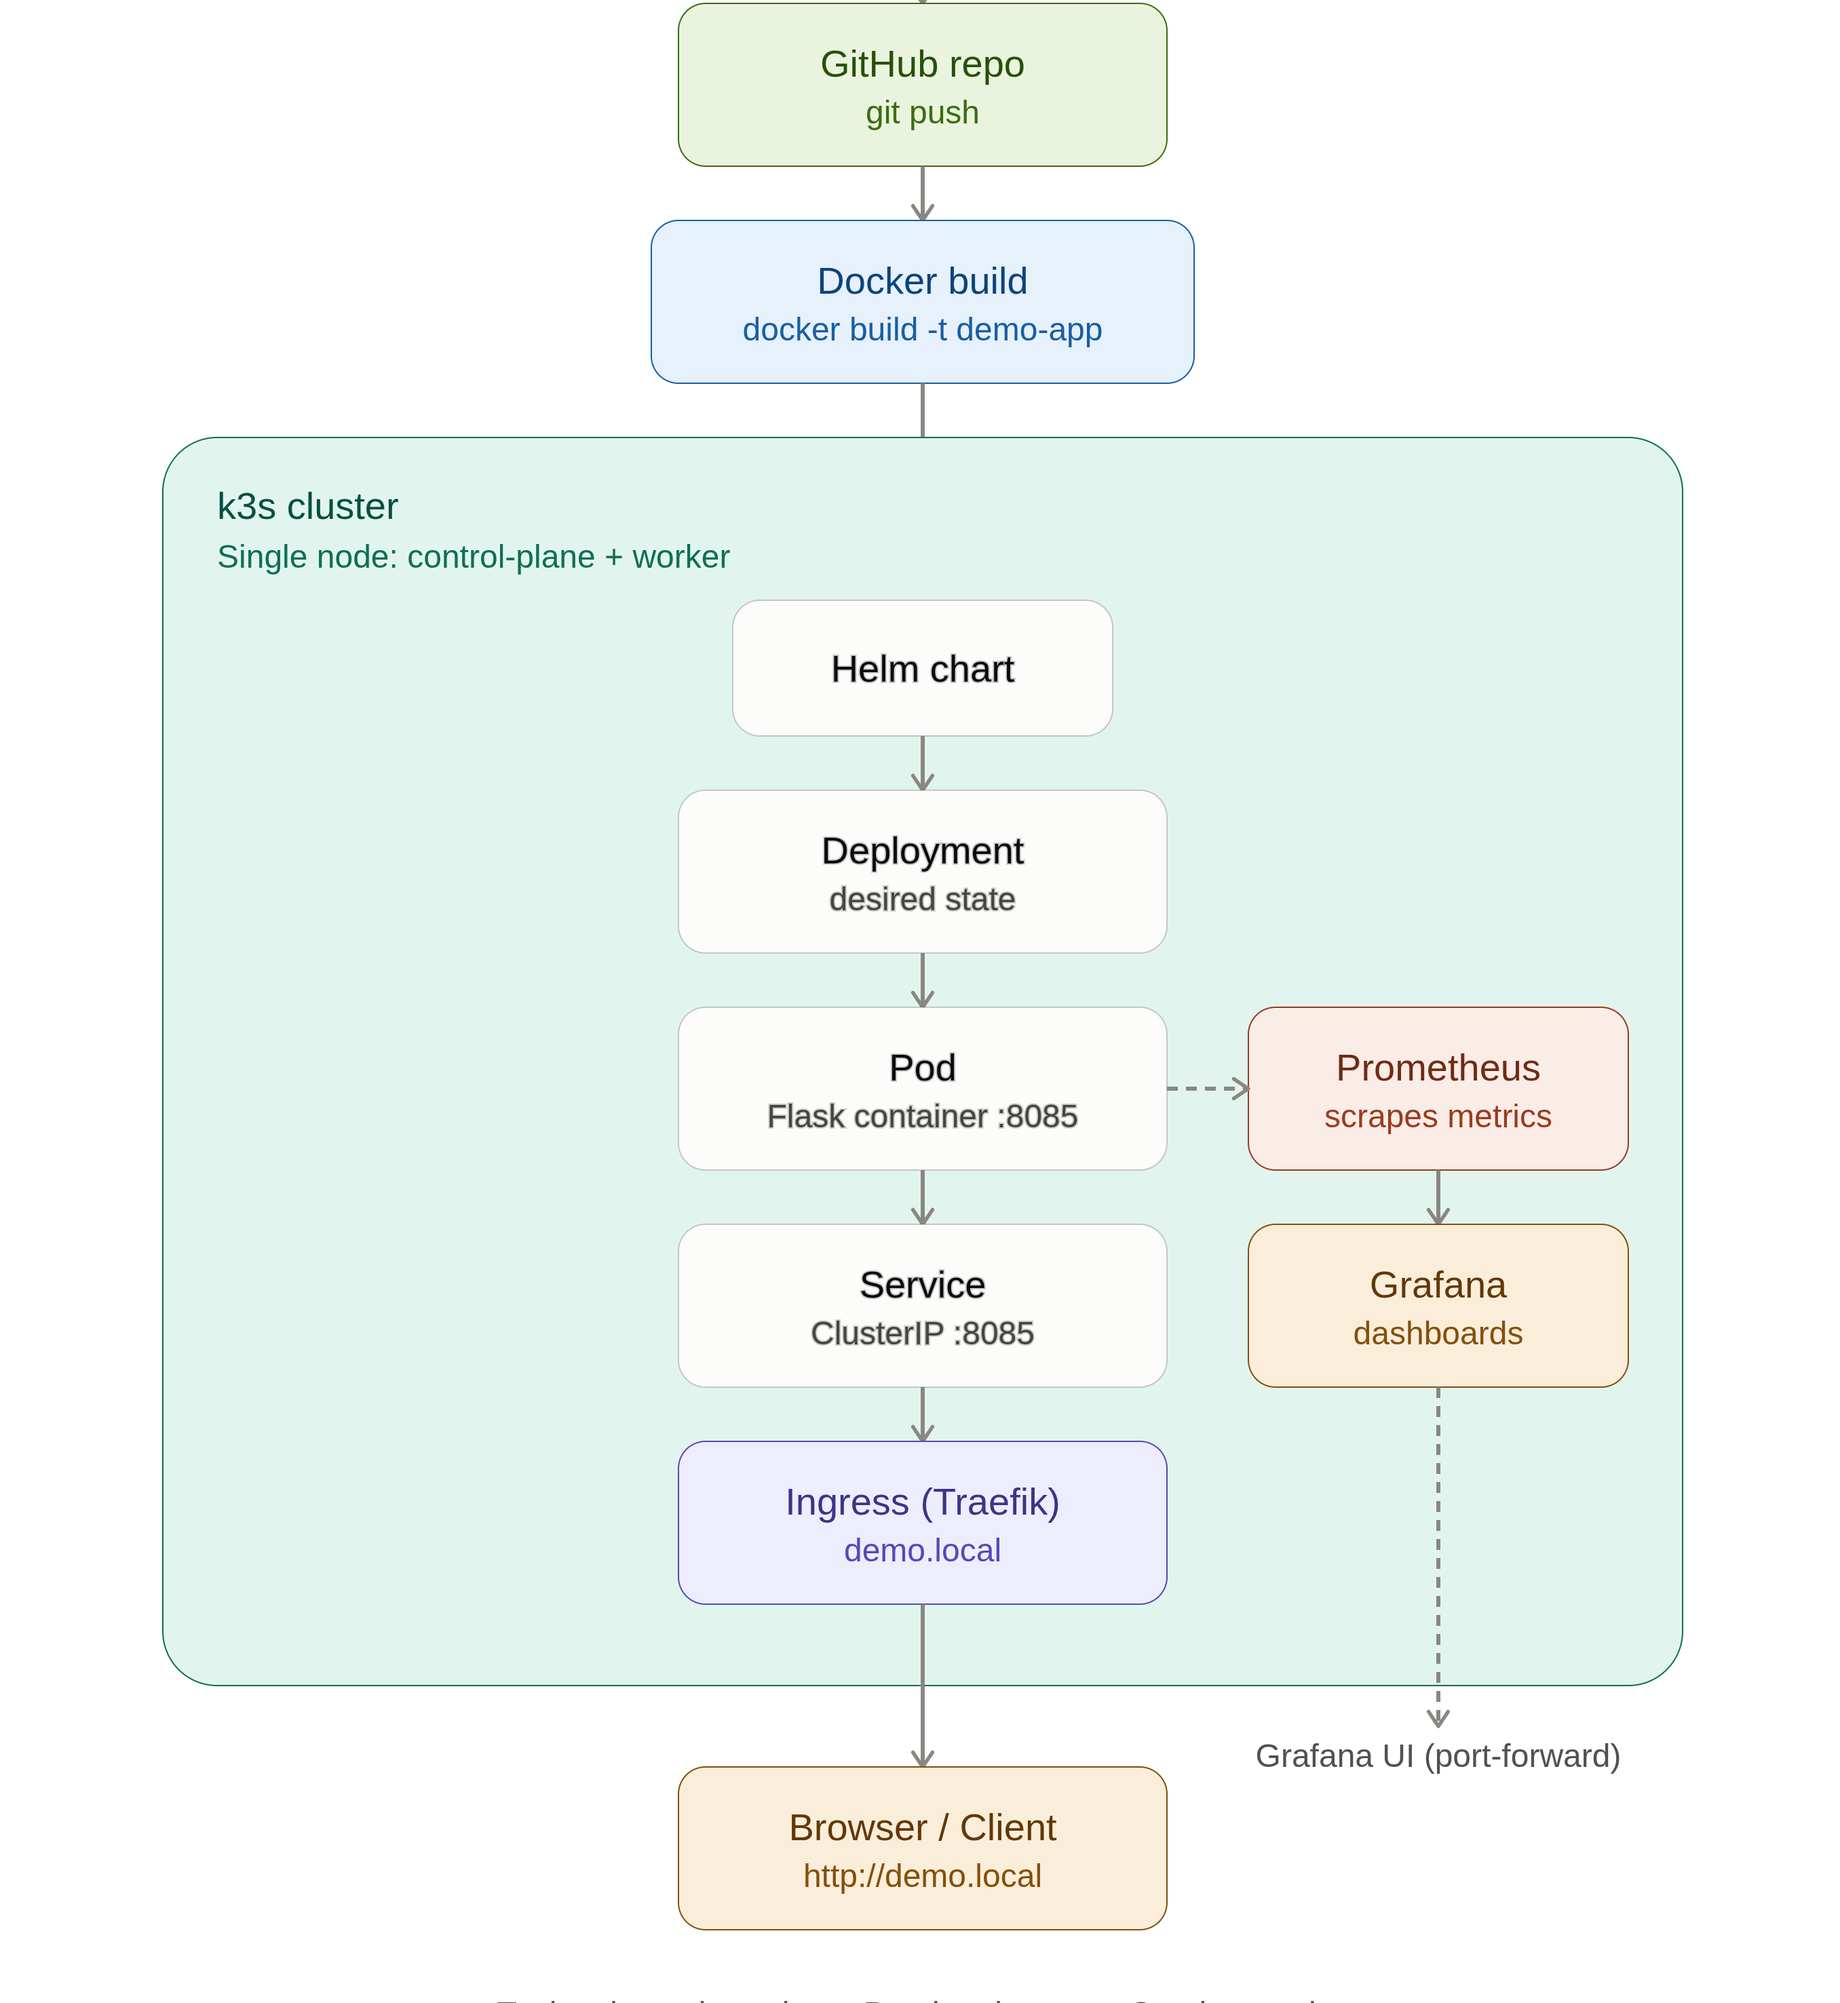
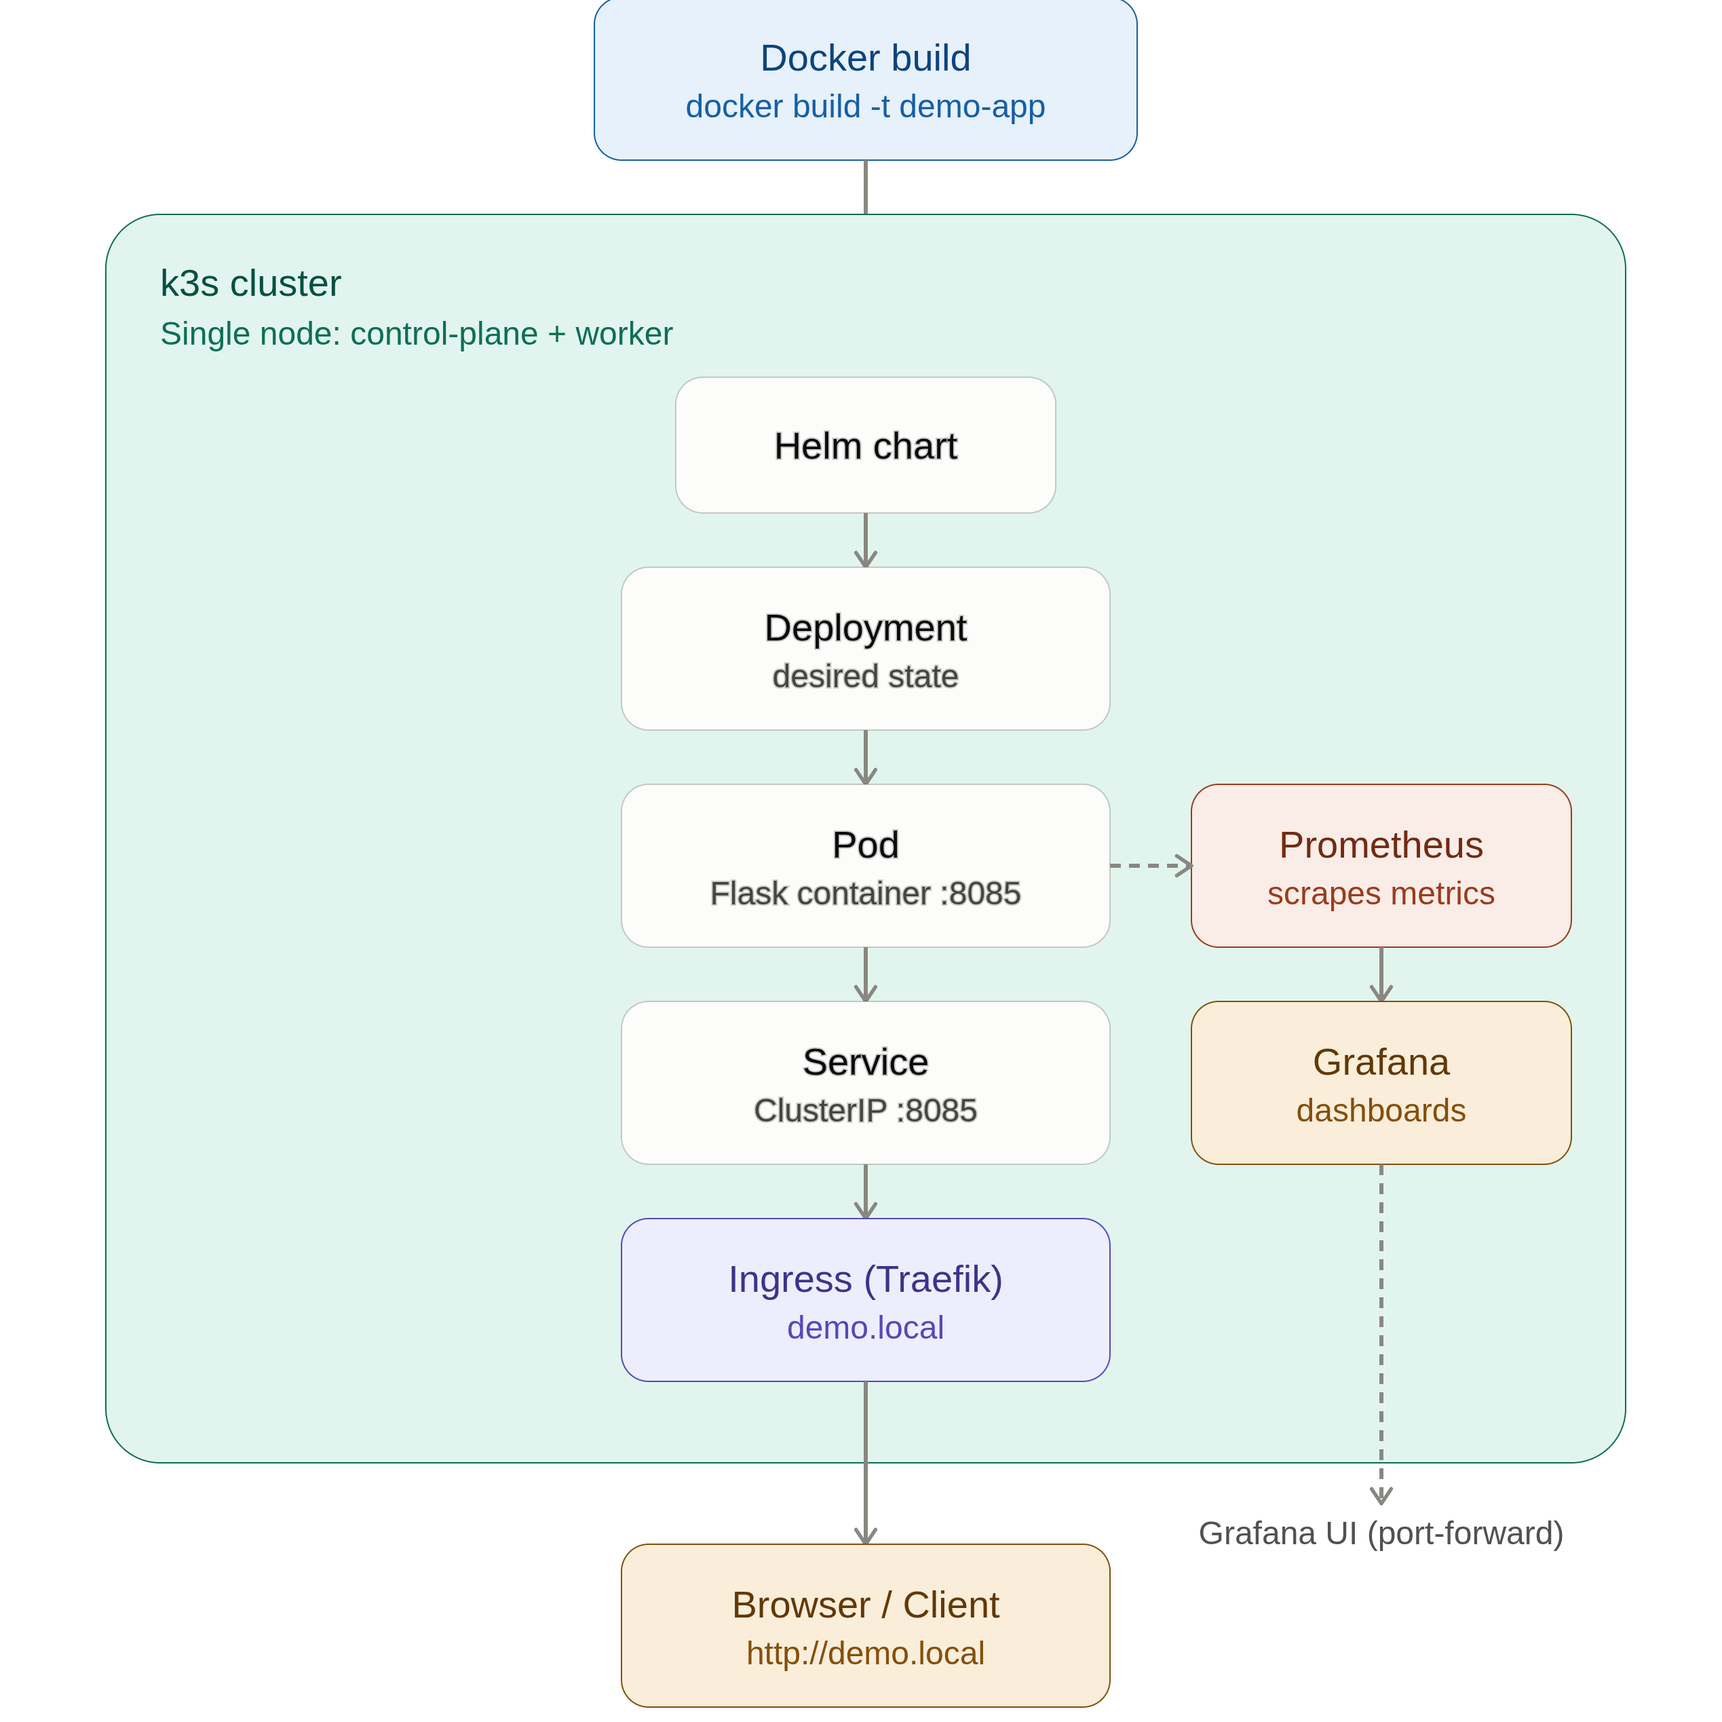
Updated documentation

Changed region(s): [[0.0623, 0.0, 0.9649, 0.9961], [0.1245, 0.249, 0.2179, 0.2801]]

diff --git a/README.md b/README.md
@@ -23,7 +23,7 @@ STEP 2: CREATING A REPO - ***The project files will be in this directory
 Added .gitignore - ***to stop junk files from getting commited
 
 STEP 3: CREATING THE FILE STRUCTURE
-![image alt](https://github.com/tcsdevopsintern/Sandra_tcs-devop-project-C/blob/f84d4629862abdf1bd79c394984798df65236db2/FolderStructure.md)
+![image alt](https://github.com/tcsdevopsintern/Sandra_tcs-devop-project-C/blob/f84d4629862abdf1bd79c394984798df65236db2/FileStructure.png)
 
 STEP 4: CREATE THE APP
 cd app
@@ -64,7 +64,6 @@ nano ingress.yaml - ***I added the kubernetes.io/ingress.class: traefik annotati
 STEP 10: DEPLOY THE APP WITH HELM
 cd ~/Sandra_tcs-devop-project-C
 helm install demo-app ./charts/demo-app
-*** Incase of changes run - helm upgrade demo-app ./charts/demo-app
 
 NAME: demo-app
 LAST DEPLOYED: Wed Jul 22 13:25:49 2026
